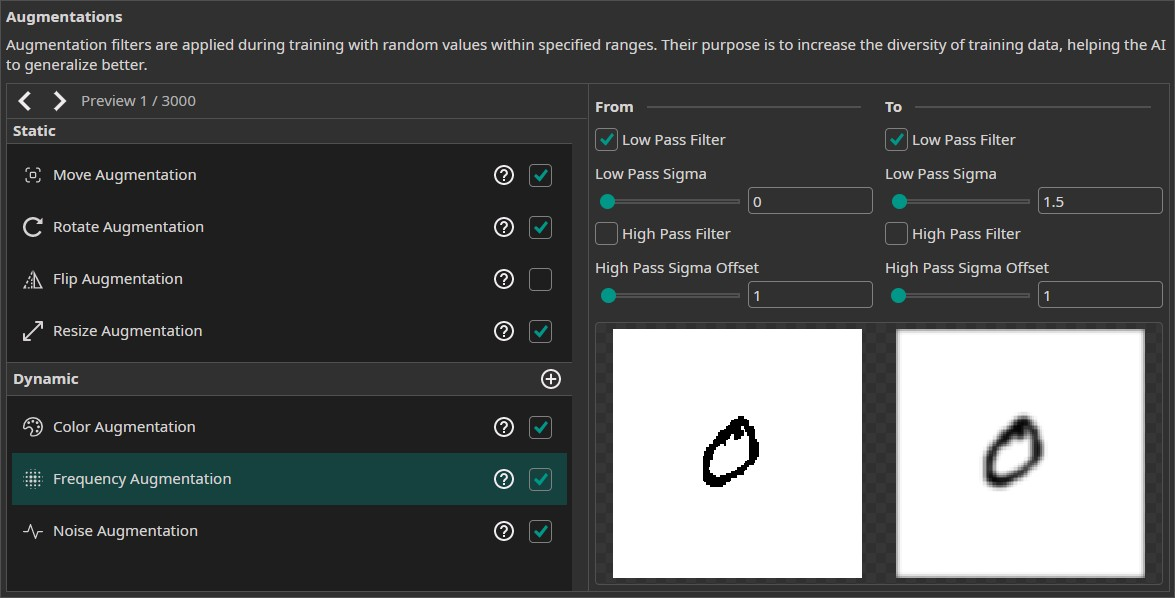
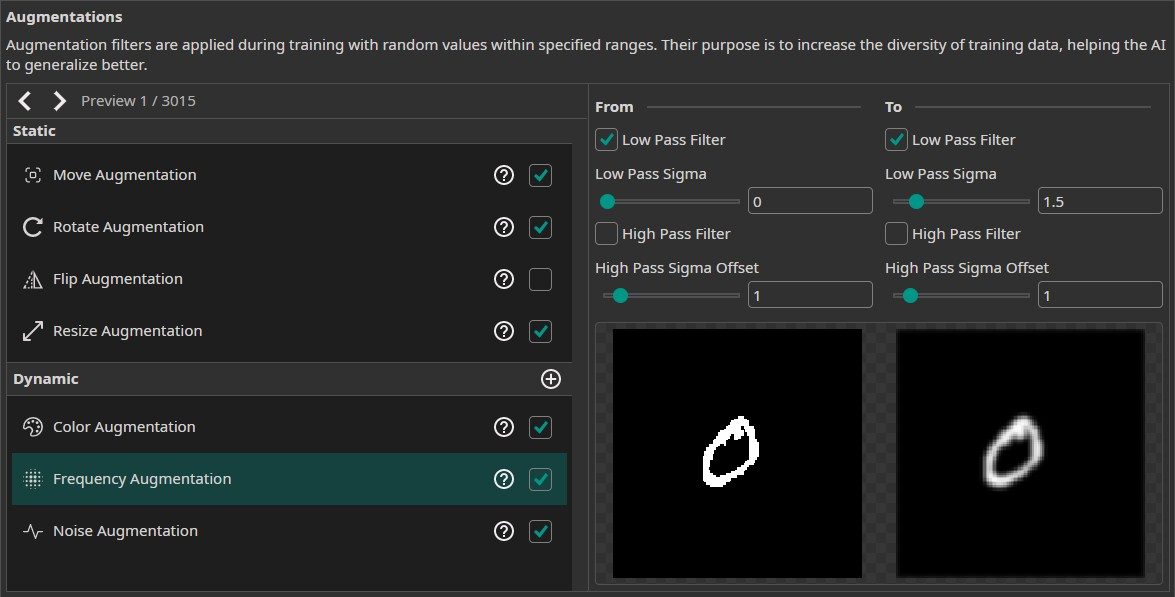
Working on handwritten digits demo

diff --git a/docs/one-ai/03-handwritten-digits-demo.md b/docs/one-ai/03-handwritten-digits-demo.md
@@ -9,65 +9,80 @@ sidebar_label: Demo - Handwritten Digits
 This demo showcases the usage of OneWare Studio and the OneAI Extension for a demo case. If you are unfamiliar with the OneAI Extension, we recommend to first take a look at our guide [Getting Started with One AI for Object Detection](/docs/one-ai/01-get-started.md). We also recommend to read the [Potato Chip Classification Demo](/docs/one-ai/02-potato-chip-demo.md), since it goes into more detail than this demo.
 
 ## Dataset Overview
-The dataset for this demo can be downloaded [here](https://github.com/one-ware/OneAI_demo_datasets/blob/main/nist_sd19_subset.zip). It is a subset of the [NIST Special Database 19](https://www.nist.gov/srd/nist-special-database-19) and contains images of handwritten digits. The training set contains 3000 images - 300 for each digit - while the test set contains 500 images.
-
-The goal of this demo is to create an AI model that is able to recognize handwritten digits and return the correct class for an image. If you have a webcam available, you will be able to test the model with live data from that camera by drawing numbers on a piece of paper.
+The dataset for this demo can be downloaded [here](https://github.com/one-ware/OneAI_demo_datasets/blob/main/nist_sd19_subset.zip). It is a subset of the [NIST Special Database 19](https://www.nist.gov/srd/nist-special-database-19) and contains images of handwritten digits. The training set contains 3000 images, 300 for each digit, while the test set contains 500 images.
 
 Here are a few examples from the dataset:
 
 ![nist_sd19_examples](/img/ai/one_ai_plugin/demos/handwritten-digits/nist_sd19_examples.jpg)
 
+The goal of this demo is to create an AI model that is able to recognize handwritten digits. At the end of this demo, you will be able to test the model with live data from your webcam with your own handwritten numbers. During this demo, we will pretend that we want to train a model for an Altera™ Max® 10 16K FPGA to show the workflow and abilities of ONE AI, although the webcam demonstration will run on the CPU of your computer.
+
 ## Setting up the Project
 The setup process is similar to the [Potato Chip Demo](/docs/one-ai/02-potato-chip-demo.md#setting-up-the-project-and-loading-the-data). First, we create a new project and a new AI Generator. Then we open the project folder in a file manager to copy the train and test data. Like before, we change the **Mode** to **Classification** and use an auto-generated validation split. Because our dataset contains a separate test set, we set both **Train Image Percentage** and **Validation Image Percentage** to **0%**.
 
-Since we want to run the model in OneWare Studio later on, we need to assign names to the labels. Otherwise, every prediction will just show *"Undefined Label"*. To do so, we go to the **Labels** tab, right click the label we want to rename and click on **Rename**. The annotated IDs match the numbers visible in the image. The exception is the number zero, which has the ID 10 since the ID 0 is reserved for the background.
+Since we want to run the model in OneWare Studio later on, we need to assign names to the labels. Otherwise, every prediction will just show *"Undefined Label"*. To do so, we go to the **Labels** tab, right click the label we want to rename and click on **Rename**. The IDs of the annotated labels match the numbers that are visible in the images. The exception is the number zero, which has the ID 10 since the ID 0 is reserved for the background.
 
 We can verify that everything was set up correctly by checking the annotations of our train and test images.
 
 ![loaded_dataset](/img/ai/one_ai_plugin/demos/handwritten-digits/nist_sd19_loaded_dataset.jpg)
 
 ## Filters and Augmentations
-The next step is to select the filters and augmentations we want to use. Since the size of the images is only 128x128, we don't require a **Resize Filter**. Instead, we apply two other filters to help our model to classify the images. First, we use an **Invert Filter** that is applied before we augment the images. This filter converts the black number on a white background to a white number on black background. Some of the augmentations, like the **Rotate Augmentation**, pad missing areas with black pixels, so by using the **Invert Filter** the background matches the padded areas.
+The next step is to select the filters and augmentations that we want to use. Since the size of the images is only 128x128, we don't require a **Resize Filter**. Instead, we apply a few other filters that will help our model with classifying the images. First, we use an **Invert Filter** that is applied before we augment the images. This filter converts the black numbers on a white background to white numbers on a black background. Some of the augmentations, like the **Rotate Augmentation**, fill missing areas with black pixels, so by using the **Invert Filter**, the background matches the padded areas.
 
-In the **After Augmentation** section we add a **Threshold Filter**. We leave the settings at their default values to create a **Binary** image based on the **Average** of all channels. This means that the resulting image contains only the values 0 and 255, which simplifies the classification task for our model. Furthermore, this step filters out noise and lighting variations. To achieve good results on new camera images, we increase the **Threshold** to **170**.
+In the **After Augmentation** section, we add a **Normalize Filter**. This will rescale the brightness values of the image and thus increase the robustness against lighting variations. Remember to activate the check box in the filter list as well as the box in the filter itself.
 
-TODO: add an image of the filters
+Next, we add a **Threshold Filter**. To achieve good results on new camera images, we increase the **Threshold** to **160**. The other settings are left at their default values to create a **Binary** image based on the **Average** of all channels. This means that the resulting image contains only the values 0 and 255, which simplifies the classification task for our model. Additionally, this step filters out noise and lighting variations. Since the **Threshold Filter** reduces the images to two grayscale values, we don't need three color channels. We can remove the unnecessary channels by activating the **Channel Filter** in the **End** section and **disabling any two channel**.
+
+![filters](/img/ai/one_ai_plugin/demos/handwritten-digits/nist_sd19_filters.jpg)
 
 In addition to those filters, we use the following augmentations:
 - **Move Augmentation**: We set the amount of shift to **±20%** in both directions to increase the model's robustness against variations in the position of the numbers.
 - **Rotate Augmentation**: Since numbers have a clearly defined up direction, we need a lot less rotation than in the potato chip demo. We still want to have some robustness against rotations, so we set the **rotation** range to **±20°**.
 - **Flip Augmentation**: We **turn off the flip augmentation**, since we aren't going to encounter mirrored numbers in our application.
-- **Resize Augmentation**: Since the goal of this demo is to run the model on a webcam, our model needs to be quite robust against size variations. This is especially true for numbers that are smaller than in the training data, because the numbers in the webcam images are likely to be smaller as well. We thus set the size augmentation from **50% to 125%** in both dimensions.
-- **Color Augmentation**: To make the model more robust against lighting variations, we add a color augmentation. We set the **brightness** to **(-10, 10)**, the **contrast** to **(90, 110)** and leave the **saturation** and **hue** at their **default values**.
-- **Frequency Augmentation**: We add a frequency augmentation, to simulate images that are out of focus. Thus, we only use a **Low Pass Filter** and set its **sigma** values to **(0, 1)**.
-- **Noise Augmentation**: Finally, we add a noise augmentation to increase the robustness against camera noise. This is especially useful for this dataset, because it adds some variation to the otherwise smooth background. We set the values to **(5, 15)**.
+- **Resize Augmentation**: Since the goal of this demo is to run the model on a webcam, our model needs to be quite robust against size variations. This is especially true for numbers that are smaller than those in the training data, because the numbers in the webcam images are likely to be smaller as well. We thus set the size augmentation from **40% to 125%** in both dimensions.
+- **Color Augmentation**: To make the model more robust against lighting variations, we add a color augmentation. We set the **brightness** to **(-30, 30)**, the **contrast** to **(80, 120)** and leave the **saturation** and **hue** at their **default values**.
+- **Frequency Augmentation**: We add a frequency augmentation, to simulate images that are out of focus. Thus, we only use a **Low Pass Filter** and set its **sigma** values to **(0, 1.5)**.
+- **Noise Augmentation**: Finally, we add a noise augmentation to increase the robustness against camera noise. This is especially useful for this dataset, because it adds some variation to the otherwise smooth background. We set the values to **(0, 10)**.
 
 ![augmentations](/img/ai/one_ai_plugin/demos/handwritten-digits/nist_sd19_augmentations.jpg)
 
+You might wonder that some of our filters undo the effects of our augmentations. Specifically the **Normalize Filter** and the **Threshold Filter**, which will remove most if not all of the changes from the **Color Augmentation** as well as the **Noise Augmentation**. This behavior is intended. We use the augmentations to simulate variations in real life data that might not have been captured by our training data. We use filters to remove those variations that our model might encounter to increase its robustness. By using both augmentations as well as filters that counteract them, we ensure that our data pipeline is configured correctly and works in real life situations. Otherwise, we might realize during deployment that the threshold we set in the **Threshold Filter** removes too much or too little under different lighting conditions and ruins the model's performance.
+
 ## Model Settings
-After having set up the data processing pipeline, we configure the model settings. First, we need to specify the **Classification Type**. We want to predict one of the numbers for each image so we set it to **One Class per Image**. For the later tests with the webcam, it would be nice if we were able to detect multiple numbers in the same image, but since the training data doesn't contain any images with more than one number, our model won't be able to make these kind of predictions. We set the **Minimum FPS** to **20** and the **Maximum Memory Usage** as well as the **Maximum Multiplier Usage** to **90%**. The **FPGA Clock Speed** is left at **50 MHz**, since we are going to create a model for the Altera™ Max® 10 16K.
+After having set up the data processing pipeline, we configure the model settings. First, we need to specify the **Classification Type**. We want to predict one of the numbers for each image, so we set it to **One Class per Image**. For the tests with the webcam, it would be nice if we were able to detect multiple numbers in the same image, but since the training data doesn't contain any images with more than one number, our model won't be able to make these kind of predictions. We set the **Minimum FPS** to **60** and the **Maximum Memory Usage** as well as the **Maximum Multiplier Usage** to **90%**. The **FPGA Clock Speed** is left at **50 MHz**, since we are going to create a model for the Altera™ Max® 10 16K.
 
 Next, we provide some additional information on the characteristics of the input data. First, we estimate the area that the model needs to analyze to make a decision for the smallest and the largest numbers. We set the surrounding area to **(25, 25)** for small objects and to **(90, 90)** for large objects.
 
-Then, we estimate the variance of numbers from the same class. We observe quite a few differences in writing styles like the size, the angle or the line width, so we set the **Same Class Difference** to **40%**. The next setting describes the variation of background. There is no variation in the original background but since we added noise, we set the **Background Difference** to **5%**. We set the **Detect Simplicity** to **90%**, because the task isn't that complicated. Next, we need to specify the estimated sizes for small, average and large objects. We set those to **(25, 25)**, **(50, 50)** and **(90, 90)**. Finally we need to tell OneAI how many image features are relevant for the classification. We set **Average Number of Features for Classification** to **2** and **Maximum Number of Features for Classification** to **4**.
+Then, we estimate the variance of numbers from the same class. We observe quite a few differences in writing styles like the size, the angle or the line width, so we set the **Same Class Difference** to **40%**. The next setting describes the variation of background. As there is no variation in the white background, we set the **Background Difference** to **0%**. We set the **Detect Simplicity** to **90%**, because the task isn't that complicated. Next, we need to specify the estimated sizes for small, average and large objects. We set those to **(25, 25)**, **(50, 50)** and **(90, 90)**. Finally we need to tell ONE AI how many image features are relevant for the classification. We set **Average Number of Features for Classification** to **2** and **Maximum Number of Features for Classification** to **4**.
 
 ## Training the Model
 Now, it's time to set up the training configuration for the model. In the **Hardware Settings** tab we select the **Altera™ Max® 10 16K** as the **Used Hardware**.
 
-In the **Training** tab we need to click on **Sync** to synchronize our data and existing model trainings with the ONE WARE servers. After that, we create a new training configuration. For this demo, a **training time** of **10 minutes** is sufficient to fully train the model. We leave the **patience** at the default value of **30%**. Since we want to export the model to an FPGA, we **Enable Quantization Optimization** to increase its performance.
+In the **Training** tab we need to click on **Sync** to synchronize our data and existing model trainings with the ONE WARE servers. After that, we create a new training configuration. For this demo, a **training time** of **10 minutes** is sufficient to fully train the model. We leave the **patience** at the default value of **30%**. Since we want to export the model to an FPGA, we **Enable Quantization Optimization** to increase its performance. We leave the **Percentage** at **30%** to achieve a good trade off between training time and model performance. If we want the best performing model, we need to set it to **100%**, but this will increase the training time. For models that will be exported as floating point models it is best to turn off quantization.
 
 Finally, we click on the **Train** button in the top-right corner to start the training. You can monitor the training progress in the **Logs** and **Statistics** tabs.
 
 ## Model Export
-After the training is completed, we need to export our model. We configured our model to run on a Altera™ Cyclon® V 25K, but for now we are content with testing its capabilities on a computer. To use the model inside of OneWare Studio's camera tool, we need to export it as an ONNX model. To do so, we click on the **Export** button, which opens a new window with configurations. In the **Export type** drop-down menu, we select ONNX since that is the format we need.
 
-Next we can activate different settings, that change how are model is exported. If we check the **Export with pre- and postprocessing** checkbox, ONE AI will build all of our filters directly into the model. We need a model that contains our filters, so we activate the check box. The next setting allows us to change between exporting a floating point or quantized model. Unfortunately, there is no quantization support for ONNX model export yet, so we will receive a floating point model whether we check the box or not. Since models that run on FPGAs typically use a different format, this isn't a problem in most use cases.
+---
 
-The last check box allows us to select whether we want to export the last or the best model. Since the models performance can go up and down during the training, the last model might not always be the best performing one. We activate this setting to compare the model with the last model with the model with the lowest loss to export the model with the best performance (TODO: verify). In the drop-down menu, we can select the metric we want to use to determine the best model. Both accuracy and F1-Score make sense and are commonly used to evaluate classification models.
+**Note:** The model export is still under development at the moment so you won't be able to follow this part of the demo yet, but this feature will be available soon. We provide an exported ONNX model that you can download [here](https://github.com/one-ware/OneAI_demo_datasets/blob/main/nist_sd19.onnx) instead. To use the model in the next chapter, right click on your project folder in OneWare Studio, select **Open in File Manager** and insert the model into the folder ``[selected_name]/Models``. You might need to restart OneWare Studio for the model to show up in the **Camera Tool**.
 
-TODO: image
+---
+
+After the training is completed, we need to export our model. We configured our model to run on an Altera™ Max® 10 16K, but for now we are content with testing its capabilities on a computer. To use the model inside of OneWare Studio's camera tool, we need to export it as an ONNX model. To do so, we click on the **Export** button, which opens a new window with configurations. In the **Export type** drop-down menu, we select ONNX since that is the format we need.
+
+Next we can activate different settings, that change how our model is exported. If we check the **Export with pre- and postprocessing** checkbox, ONE AI will build all of our filters directly into the model. We activate this setting, because the filter pipeline is an important part of our model. The next setting allows us to change between exporting a floating point or quantized model. At the moment, the ONNX model export supports only floating point models, so we will receive a floating point model whether we check the box or not.
+
+The last check box allows us to select whether we want to export the last or the best model. This setting is only relevant for object detection tasks, so we can deactivate it.
+
+![model_export](/img/ai/one_ai_plugin/demos/handwritten-digits/nist_sd19_export.jpg)
 
 ## Testing the Model
-Now it's time to test our trained model. To do so, we go back to the **Dataset** tab. In the top-right corner, we open the **Camera Tool**. Select your camera in the drop-down menu, then click on the plus icon to add it. We recommend turning on **Auto Exposure** by clicking onto the gear icon and scrolling down until you reach the corresponding check box.
+Now it's time to test our trained model. To do so, we go back to the **Dataset** tab. In the top-right corner, we open the **Camera Tool**. Select your camera in the drop-down menu, then click on the plus icon to add it. Next, you need to change the camera's resolution by clicking on the gear icon and setting the **Width** and **Height** to **128** to match the resolution of our images. We also recommend turning on **Auto Exposure** further down in the settings.
 
-To test our model, we switch to the **Run Model** tab. In the drop-down menu in the top-left corner, we can select our trained model. Afterwards we click on the play-button below to run the model. You'll get the best results if you write your numbers on a white piece of paper without any markings and use a black pen with a thick line width.
+![camera_settings](/img/ai/one_ai_plugin/demos/handwritten-digits/nist_sd19_camera_settings.jpg)
+
+To test our model, we switch to the **Run Model** tab. In the drop-down menu in the top-left corner, we can select our trained model. We also need to select our camera in the top-right corner. Afterwards we click on the play-button on the top-left of the image to run the model. The predicted class will be shown on the bottom-right. You'll get the best results if you write your numbers on a white piece of paper without any markings and use a black pen with a thick line width.
+
+![model_prediction](/img/ai/one_ai_plugin/demos/handwritten-digits/nist_sd19_prediction.jpg)
